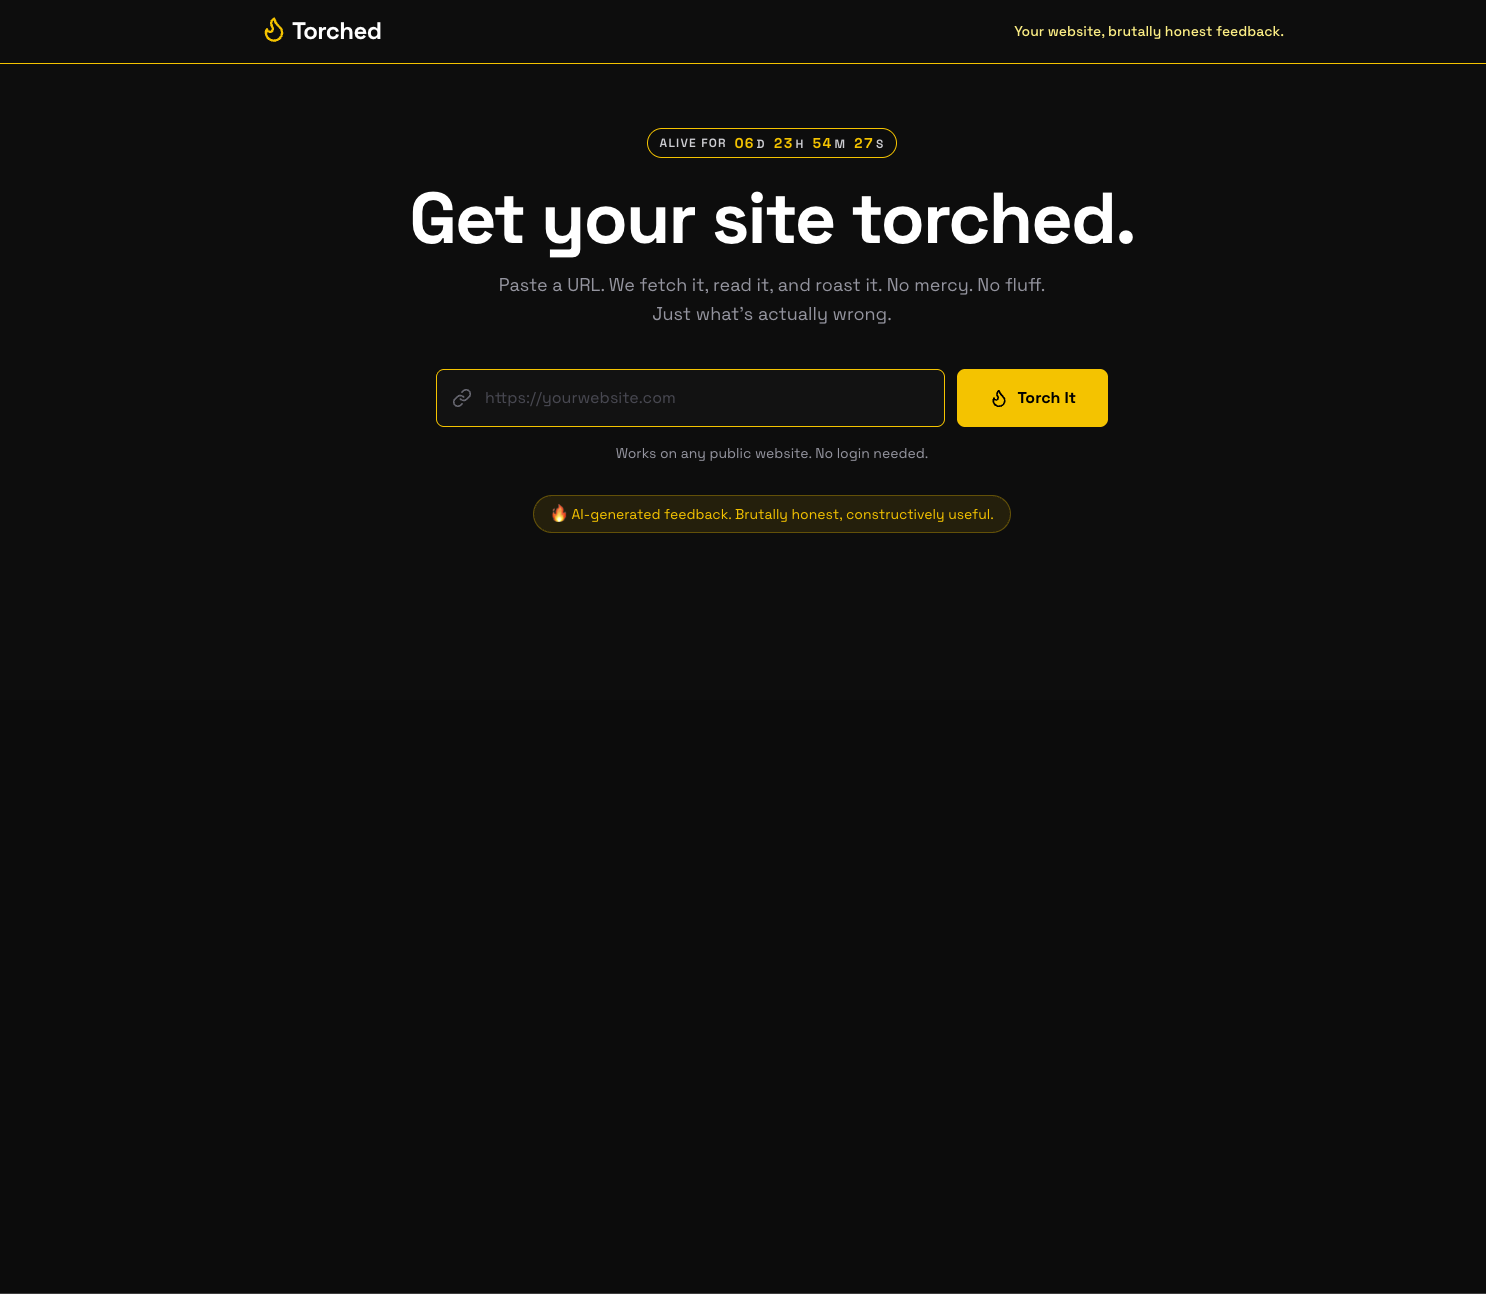
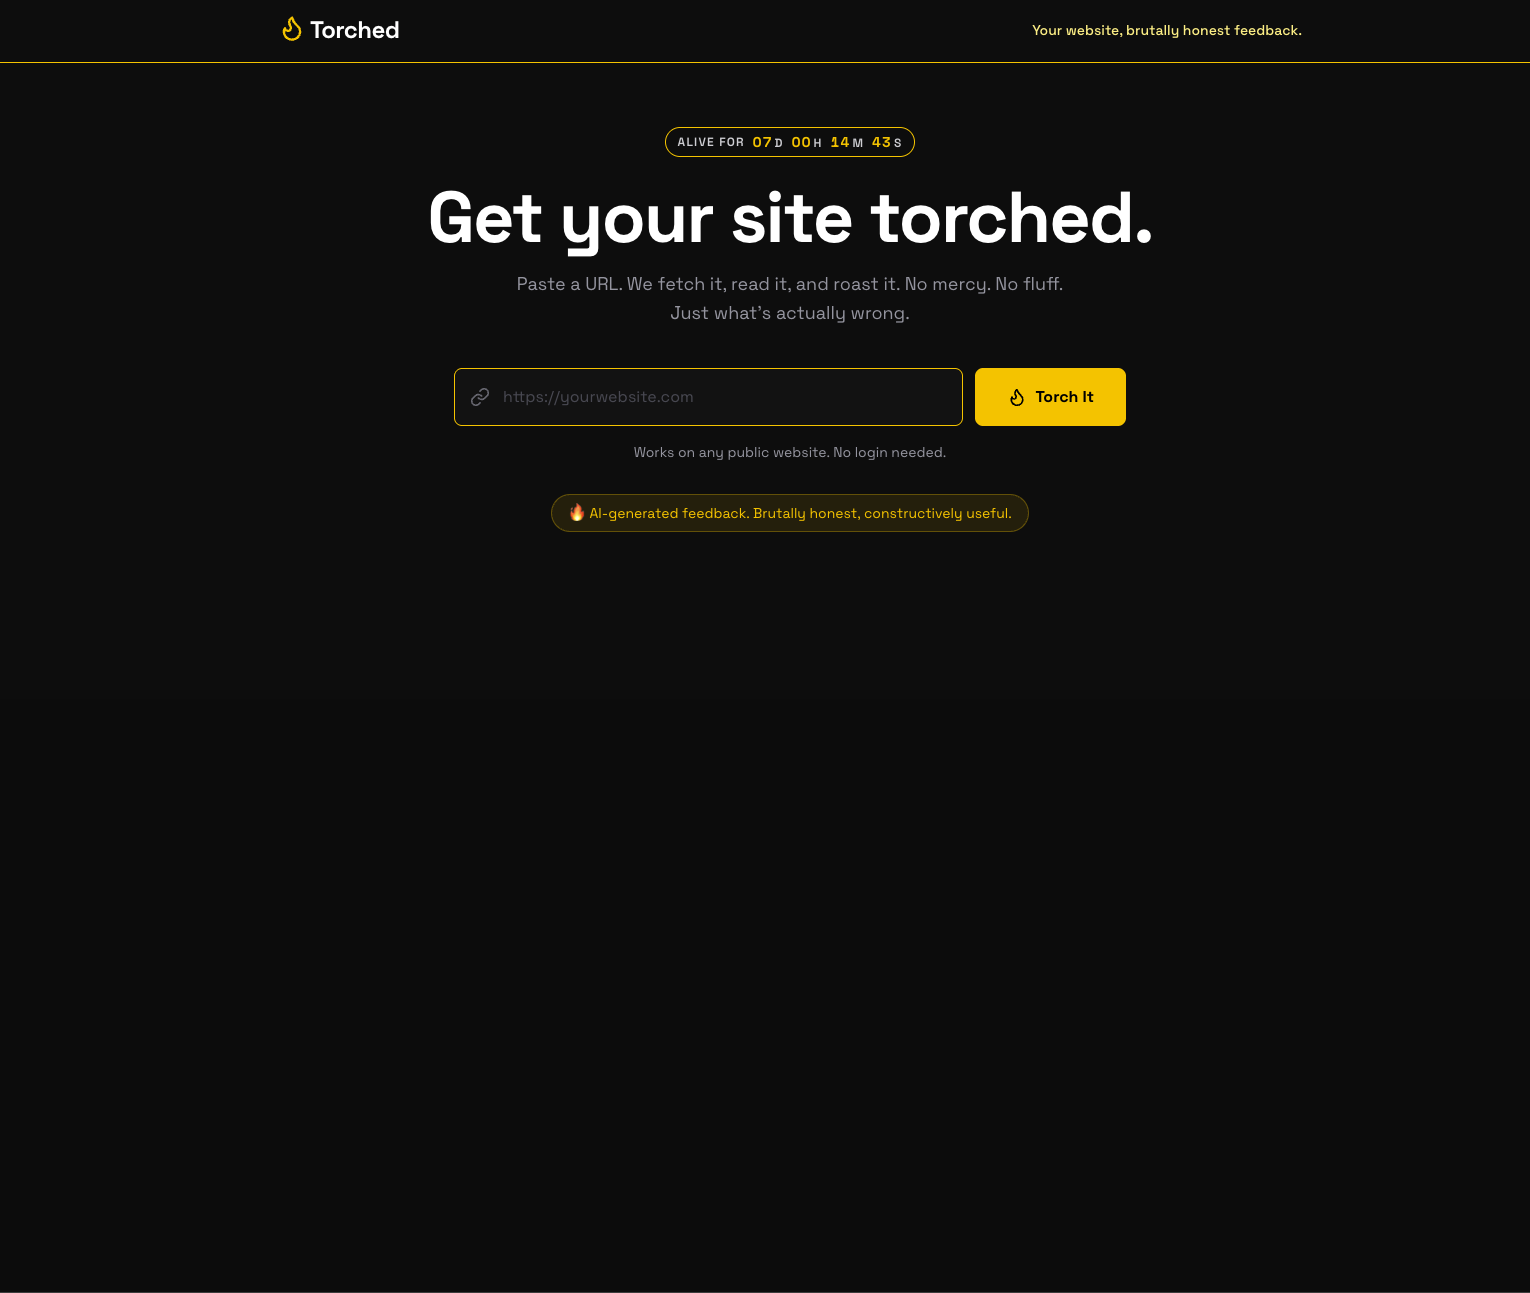
Update data

diff --git a/data/buildlog.ts b/data/buildlog.ts
@@ -79,9 +79,9 @@ export const LOG_ENTRIES: LogEntry[] = [
   {
     id: 'rebuilt',
     time: '26-06 | 15:34',
-    title: 'Rebuilt gemaakt en deployed',
-    description: 'Live op Vercel — rebuilt.vercel.app',
-    url: 'https://rebuilt.vercel.app',
-    preview: { type: 'vercel', meta: 'rebuilt.vercel.app' },
+    title: 'Rebuilt gemaakt en live gezet',
+    description: 'Live op Vercel — rebuilt-omega.vercel.app',
+    url: 'https://rebuilt-omega.vercel.app/',
+    preview: { type: 'vercel', meta: 'rebuilt-omega.vercel.app' },
   },
 ]